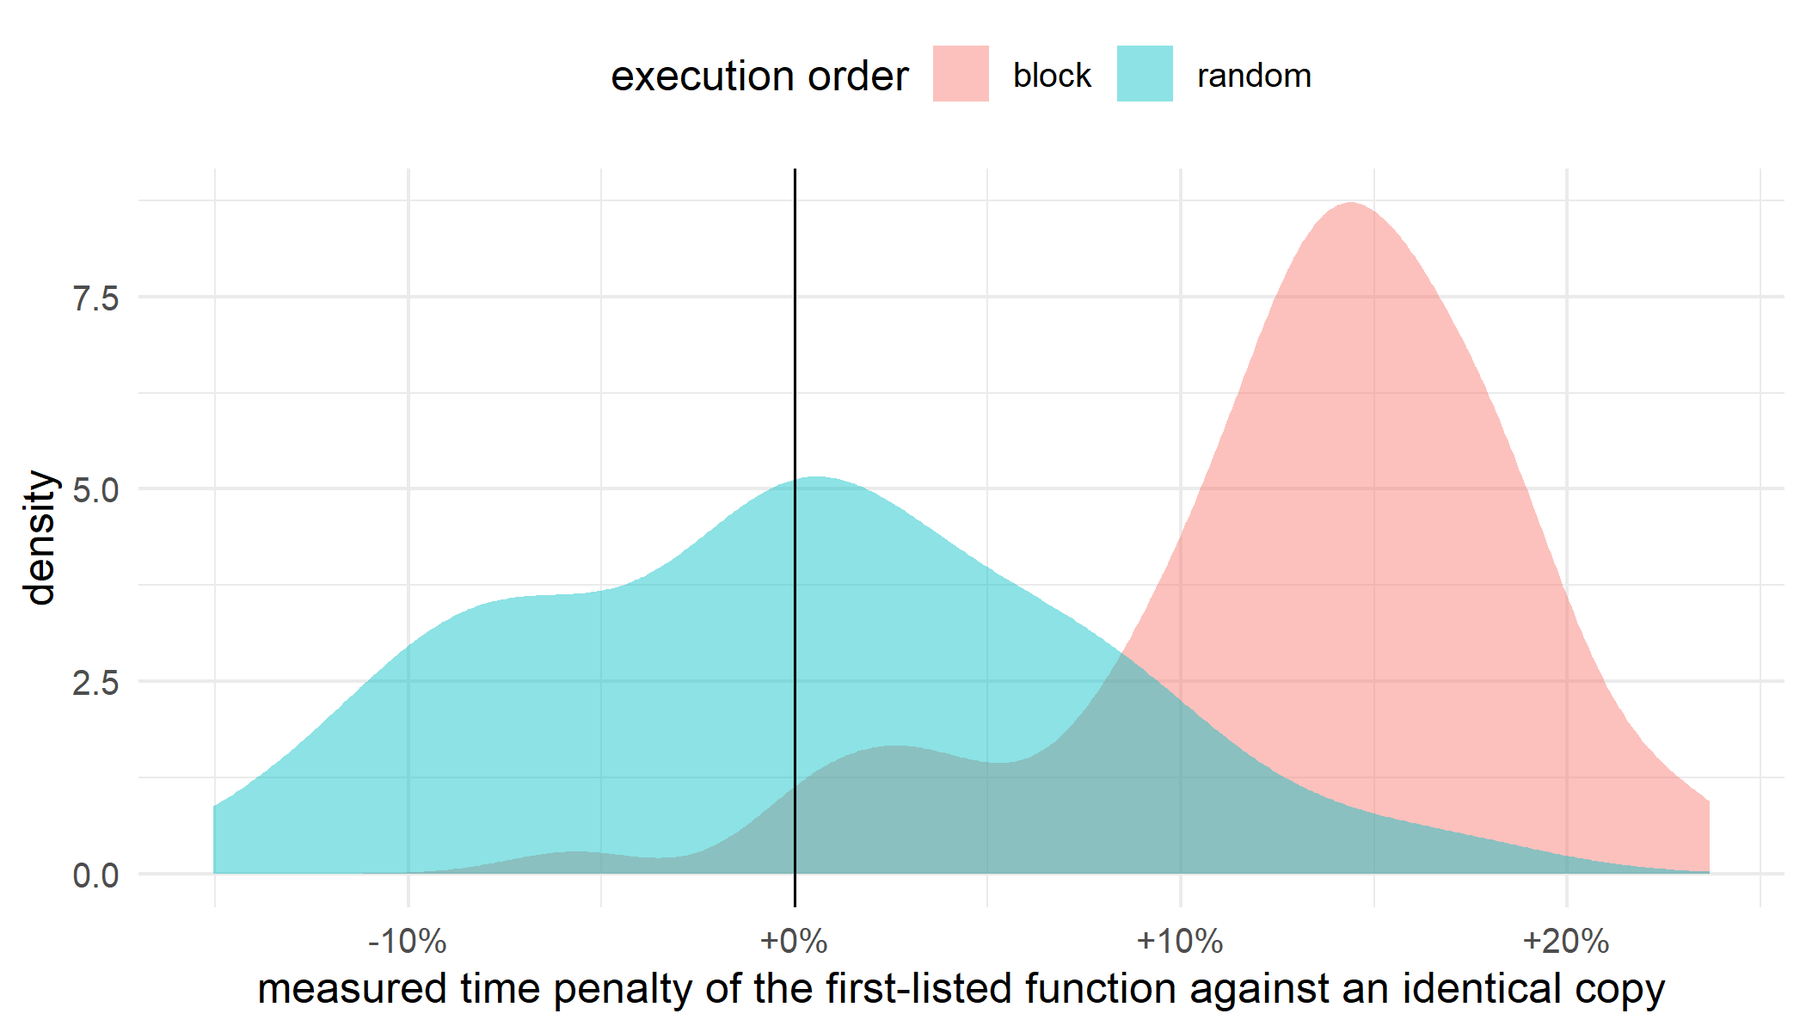
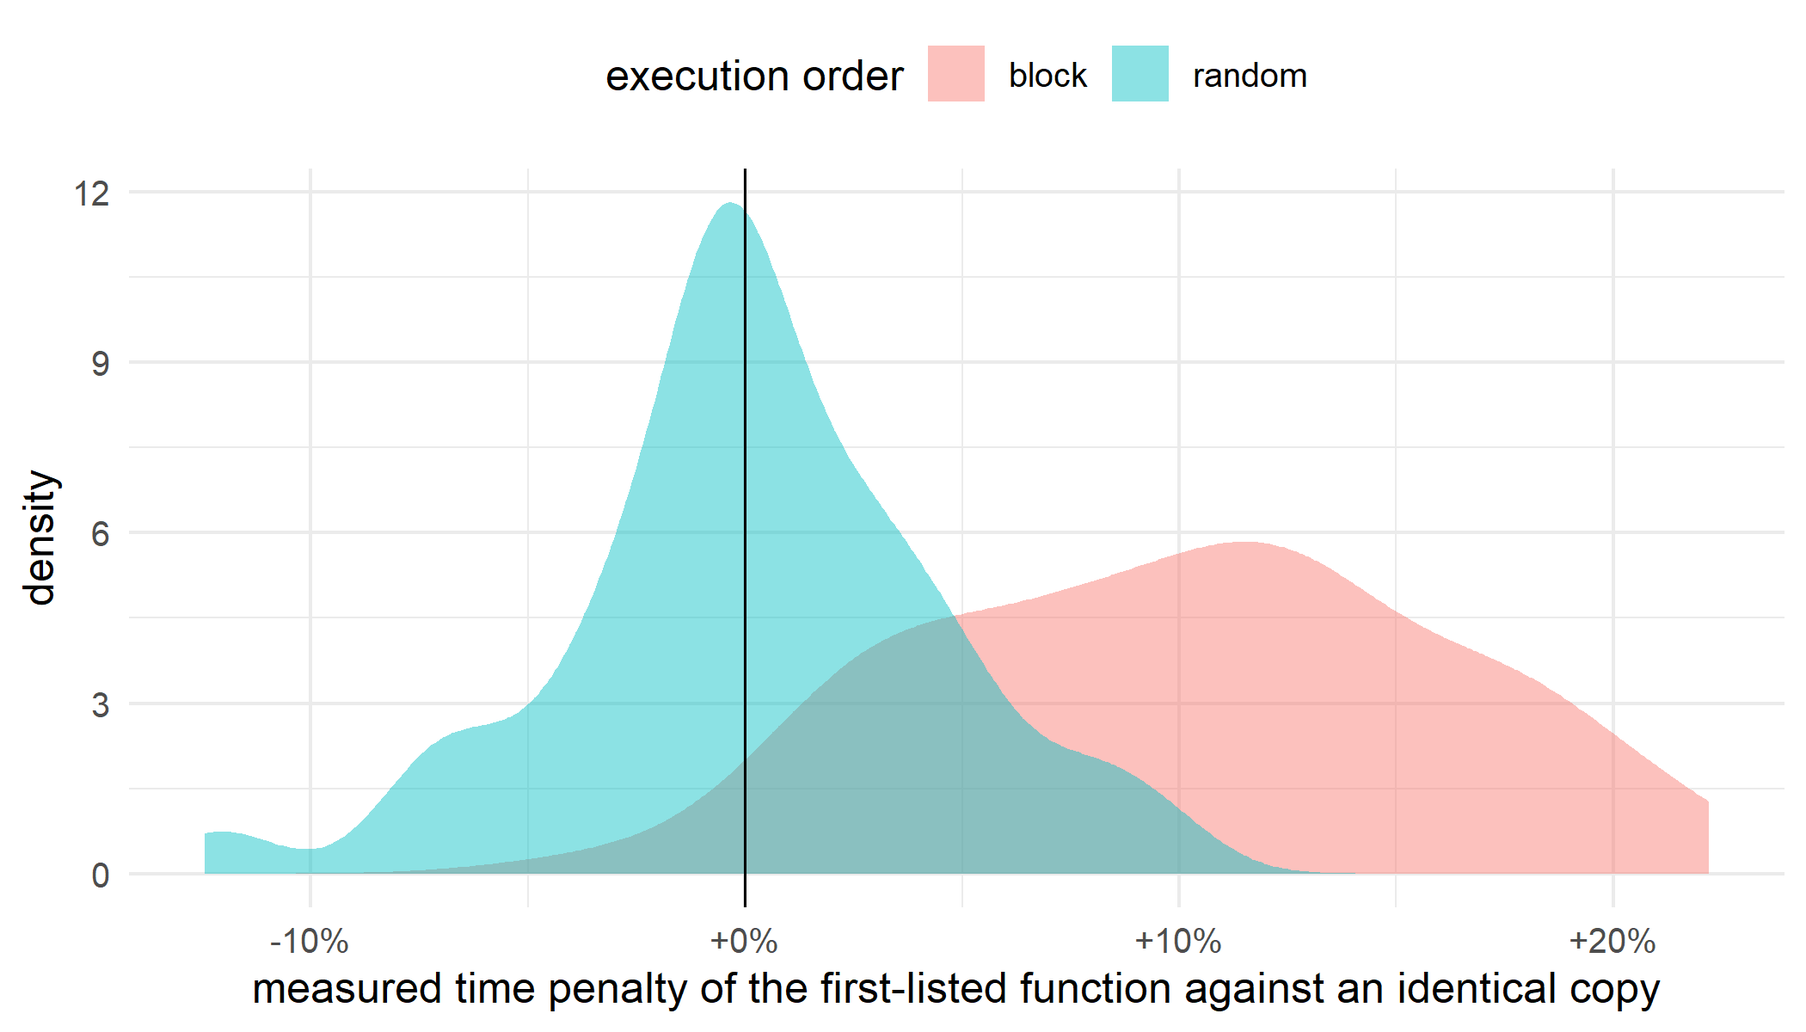
Correct the mechanism section to match its own figure
Viewing the rendered post in a browser showed the drift figure is three
isolated spikes on a flat baseline, roughly 29 calls apart, not the
sawtooth the prose described. Reworded to report what the plot shows, and
added a mean-based half ratio alongside the median-based one so the claim
that the effect is positional does not rest on the choice of summary
statistic. Both now land within 0.004 of each other.

Also drops the unverified assertion that the spikes dominate the mean,
which the two ratios agreeing had already contradicted, and syncs the ops
docs and the review page to the figures of the final render.

diff --git a/content/post/2026-09-01-how-to-benchmark-r-code-correctly/index.en.html b/content/post/2026-09-01-how-to-benchmark-r-code-correctly/index.en.html
@@ -29,7 +29,7 @@ projects: []
 
 <p>A benchmark is an experiment. It has treatments (the implementations you are comparing), units
 (the individual timed calls), and a response (elapsed time). Almost nobody treats it
-that way, and the cost is that a good share of the speed claims you read are measuring the order
+that way, and the cost is that many speed claims you read are measuring the order
 the code ran in rather than the code.</p>
 <p>Here is the cheapest demonstration. I raced a function against a byte-identical copy
 of itself, and swapped which copy got listed first. If a slot rather than a function is winning,
@@ -92,59 +92,59 @@ race_grid$ratio &lt;- mapply(race, race_grid$order, race_grid$first)</code></pre
 <tr class="odd">
 <td align="left">block</td>
 <td align="left">a</td>
-<td align="left">1.1346</td>
-<td align="left">[1.1145, 1.1547]</td>
-<td align="left">2.5e-16</td>
-<td align="left">98%</td>
+<td align="left">1.1100</td>
+<td align="left">[1.0908, 1.1291]</td>
+<td align="left">3.2e-14</td>
+<td align="left">100%</td>
 </tr>
 <tr class="even">
 <td align="left">block</td>
 <td align="left">b</td>
-<td align="left">1.1291</td>
-<td align="left">[1.1135, 1.1447]</td>
-<td align="left">&lt;2e-16</td>
-<td align="left">100%</td>
+<td align="left">1.0955</td>
+<td align="left">[1.0767, 1.1144]</td>
+<td align="left">1.2e-12</td>
+<td align="left">95%</td>
 </tr>
 <tr class="odd">
 <td align="left">block</td>
 <td align="left">either (pooled)</td>
-<td align="left">1.1318</td>
-<td align="left">[1.1194, 1.1443]</td>
+<td align="left">1.1027</td>
+<td align="left">[1.0895, 1.1160]</td>
 <td align="left">&lt;2e-16</td>
-<td align="left">99%</td>
+<td align="left">98%</td>
 </tr>
 <tr class="even">
 <td align="left">random</td>
 <td align="left">a</td>
-<td align="left">1.0001</td>
-<td align="left">[0.9764, 1.0238]</td>
-<td align="left">1</td>
-<td align="left">52%</td>
+<td align="left">1.0026</td>
+<td align="left">[0.9885, 1.0167]</td>
+<td align="left">0.71</td>
+<td align="left">40%</td>
 </tr>
 <tr class="odd">
 <td align="left">random</td>
 <td align="left">b</td>
-<td align="left">0.9961</td>
-<td align="left">[0.9725, 1.0197]</td>
-<td align="left">0.74</td>
-<td align="left">48%</td>
+<td align="left">1.0002</td>
+<td align="left">[0.9864, 1.0140]</td>
+<td align="left">0.97</td>
+<td align="left">52%</td>
 </tr>
 <tr class="even">
 <td align="left">random</td>
 <td align="left">either (pooled)</td>
-<td align="left">0.9981</td>
-<td align="left">[0.9817, 1.0145]</td>
-<td align="left">0.82</td>
-<td align="left">50%</td>
+<td align="left">1.0014</td>
+<td align="left">[0.9918, 1.0110]</td>
+<td align="left">0.77</td>
+<td align="left">46%</td>
 </tr>
 </tbody>
 </table>
-<p>Under block ordering the function listed first is measured as 13.2%
+<p>Under block ordering the function listed first is measured as 10.3%
 slower than an identical copy of itself, and it comes out that way in
-99% of the races. The gap survives the swap, so
+98% of the races. The gap survives the swap, so
 it belongs to the slot and not to the function. Under random ordering the same comparison returns
-a mean ratio of 0.9981, interval
-[0.9817, 1.0145], which is the null answer a benchmark of identical
+a mean ratio of 1.0014, interval
+[0.9918, 1.0110], which is the null answer a benchmark of identical
 code is supposed to give.</p>
 <div class="figure"><span style="display:block;" id="fig:null-plot"></span>
 <img src="figs/null-plot-1.png" alt="Two identical functions raced against each other under each ordering. Randomizing the execution order centres the distribution on zero. Block ordering moves it off." width="1050" />
@@ -181,7 +181,7 @@ cat(&quot;microbenchmark :&quot;, order_mb, &quot;\n&quot;)
 <p><code>bench::mark</code> calls each expression once up front and then runs every iteration of the first
 before it touches the second. That is block ordering, and there is no argument to change it.
 <code>microbenchmark</code> shuffles, because its <code>control$order</code> defaults to <code>"random"</code>. That default is the whole
-difference between the two halves of the table above.</p>
+difference between the two halves of the table.</p>
 </div>
 <div id="the-size-belongs-to-the-session-not-to-the-code" class="section level2">
 <h2>The size belongs to the session, not to the code</h2>
@@ -220,23 +220,23 @@ one_session &lt;- function(seed) {
 sessions &lt;- as.data.frame(t(vapply(1:8, one_session, numeric(2))))
 round(sessions, 4)
 ##    block random
-## 1 1.0167 0.9986
-## 2 1.0107 1.0012
-## 3 1.0063 0.9918
-## 4 1.0186 1.0105
-## 5 1.0310 0.9947
-## 6 1.0111 0.9965
-## 7 1.0094 1.0055
-## 8 1.0159 1.0182</code></pre>
+## 1 1.0087 0.9877
+## 2 1.0087 1.0093
+## 3 1.0049 0.9989
+## 4 1.0178 0.9995
+## 5 1.0097 0.9895
+## 6 1.0173 0.9994
+## 7 1.0304 1.0000
+## 8 1.0074 1.0064</code></pre>
 <p>Same code, same machine, same afternoon. The artifact appears in all eight, leaning the way this
-document did, at +0.6% to
-+3.1%.</p>
+document did, at +0.5% to
++3.0%.</p>
 <p>Now compare the session you are reading the output of. The table at the top of this page came out
-of the R session that knitted it, and it measured 13.2% against the 1.5%
-these clean sessions average, a factor of 9. A long-lived session with a big heap is a
+of the R session that knitted it, and it measured 10.3% against the 1.3%
+these clean sessions average, a factor of 8. A long-lived session with a big heap is a
 much worse place to benchmark than a fresh one, and a knitted report or a day-old RStudio session
 is exactly that. The randomized column stays inside
--0.8% to +1.8%
+-1.2% to +0.9%
 throughout. It does not care.</p>
 </div>
 <div id="what-block-ordering-is-aliasing" class="section level2">
@@ -248,31 +248,36 @@ Time one expression alone and the structure is already there.</p>
 reps_d &lt;- 200
 prof &lt;- matrix(NA_real_, reps_d, n)
 half &lt;- numeric(reps_d)
+half_mean &lt;- numeric(reps_d)
+first &lt;- 1:(n / 2)
+second &lt;- (n / 2 + 1):n
 for (i in seq_len(reps_d)) {
   tt &lt;- as.numeric(microbenchmark(impl_a(x), times = n)$time)
   prof[i, ] &lt;- tt / median(tt)
-  half[i] &lt;- median(tt[1:(n / 2)]) / median(tt[(n / 2 + 1):n])
+  half[i]      &lt;- median(tt[first]) / median(tt[second])
+  half_mean[i] &lt;- mean(tt[first]) / mean(tt[second])
 }
 t_half &lt;- t.test(half, mu = 1)
-c(first_half_over_second = mean(half), ci_low = t_half$conf.int[1],
-  ci_high = t_half$conf.int[2])
-## first_half_over_second                 ci_low                ci_high 
-##               1.010587               1.006110               1.015063</code></pre>
-<p>One expression, one hundred consecutive calls, nothing to compare it against. The first fifty calls
-run 1.1% slower than the second fifty
-and the interval clears 1 (p = 5.7e-06). That points the same way as the head to head race, as it should if the race reads position rather than code.</p>
+c(median_based = mean(half), mean_based = mean(half_mean),
+  ci_low = t_half$conf.int[1], ci_high = t_half$conf.int[2])
+## median_based   mean_based       ci_low      ci_high 
+##     1.019666     1.016283     1.011671     1.027661</code></pre>
+<p>One expression, one hundred consecutive calls, no competitor. The first fifty calls
+run 2.0% slower than the second fifty
+and the interval clears 1 (p = 2.5e-06). That points the same way as the head to head race, as it should if the race reads position not code.</p>
 <div class="figure"><span style="display:block;" id="fig:drift-plot"></span>
-<img src="figs/drift-plot-1.png" alt="Mean time by position within a run, normalised to the run median and averaged over 200 runs. The sawtooth is periodic garbage collection. Block ordering splits this sequence down the middle and charges each half to a different expression." width="1050" />
+<img src="figs/drift-plot-1.png" alt="Mean time by position within a run, normalised to the run median and averaged over 200 runs. The regular spikes are garbage collection. Block ordering splits this sequence down the middle and charges each half to a different expression." width="1050" />
 <p class="caption">
-Figure 2: Mean time by position within a run, normalised to the run median and averaged over 200 runs. The sawtooth is periodic garbage collection. Block ordering splits this sequence down the middle and charges each half to a different expression.
+Figure 2: Mean time by position within a run, normalised to the run median and averaged over 200 runs. The regular spikes are garbage collection. Block ordering splits this sequence down the middle and charges each half to a different expression.
 </p>
 </div>
-<p>The shape is the point. This is not a warm-up curve that discarding a few early iterations would
-fix. It is a sawtooth, because R collects garbage periodically and each collection lands on
-whichever call happens to be running. Where the teeth fall relative to the halfway point sets the
-size and sign of the bias, and both their height and spacing depend on the heap the session already
-carries. That is the most plausible reason the loaded and clean sessions disagree so much, though I
-did not isolate it.</p>
+<p>There are two shapes here. A few calls cost up to 6.0 times the median,
+spaced about 29 calls apart, which is garbage collection on a cycle. Underneath them the
+baseline drifts on its own. Medians step over the spikes and means do not, so the two read
+different things, and here they agree: 1.0197 against
+1.0163. The effect survives either summary statistic. Neither shape
+is a property of the code, and block ordering hands the first half of both to whichever expression
+you listed first.</p>
 </div>
 <div id="reading-a-real-comparison" class="section level2">
 <h2>Reading a real comparison</h2>
@@ -292,12 +297,12 @@ rbind(`2 * x  vs  x + x` = c(mean = mean(r_mul), t.test(r_mul, mu = 1)$conf.int,
       `x + x  vs  x + x` = c(mean = mean(r_null), t.test(r_null, mu = 1)$conf.int,
                             worst_single_run = max(abs(r_null - 1))))
 ##                       mean                     worst_single_run
-## 2 * x  vs  x + x 0.8942773 0.8691379 0.9194166        0.2284714
-## x + x  vs  x + x 1.0024195 0.9735214 1.0313176        0.2246106</code></pre>
-<p><code>2 * xx</code> really is faster than <code>xx + xx</code>, by 10.6% on average, and across 40
-randomized races the interval [0.869, 0.919] clears 1
+## 2 * x  vs  x + x 0.9566814 0.9288028 0.9845601        0.2566742
+## x + x  vs  x + x 1.0128313 0.9816652 1.0439974        0.2382984</code></pre>
+<p><code>2 * xx</code> really is faster than <code>xx + xx</code>, by 4.3% on average, and across 40
+randomized races the interval [0.929, 0.985] clears 1
 comfortably. The control row is the useful part. Two identical expressions in the same benchmark
-were off by as much as 22.5% in a single run, which is
+were off by as much as 23.8% in a single run, which is
 larger than the effect, so one run cannot resolve this comparison. That is your resolution limit for this machine on this day, and it costs one line.</p>
 </div>
 <div id="the-same-design-flaw-in-python" class="section level2">
@@ -346,12 +351,12 @@ for o in (&quot;block&quot;, &quot;random&quot;):
     se = statistics.stdev(v) / len(v) ** 0.5
     print(f&quot;{o:7s} mean {m:.4f}  95% CI [{m - 1.96 * se:.4f}, {m + 1.96 * se:.4f}]&quot;
           f&quot;  sd {statistics.stdev(v):.4f}&quot;)
-## block   mean 0.9998  95% CI [0.9937, 1.0059]  sd 0.0241
-## random  mean 1.0006  95% CI [0.9962, 1.0050]  sd 0.0174
+## block   mean 0.9966  95% CI [0.9882, 1.0051]  sd 0.0335
+## random  mean 0.9994  95% CI [0.9951, 1.0037]  sd 0.0170
 
 print(f&quot;variance ratio, block over random = &quot;
       f&quot;{statistics.variance(res[&#39;block&#39;]) / statistics.variance(res[&#39;random&#39;]):.2f}&quot;)
-## variance ratio, block over random = 1.91</code></pre>
+## variance ratio, block over random = 3.89</code></pre>
 <p>The symptom differs and the diagnosis does not. NumPy does not allocate through R’s collector, so
 the centre of the Python distribution sits close to 1. What block ordering costs there is
 precision. Randomizing shrinks the variance by the factor printed above, because consecutive calls
@@ -372,7 +377,7 @@ correlated. Runs are much closer to independent, and their spread is what belong
 interval.</li>
 <li><strong>Report an interval.</strong> A ratio of two medians with nothing around it is not a result.</li>
 <li><strong>Benchmark from a fresh session.</strong> The loaded session that knitted this page carried an
-artifact 9 times larger than clean ones running the same code. <code>callr::r()</code> gives
+artifact 8 times larger than clean ones running the same code. <code>callr::r()</code> gives
 you a clean session in one line.</li>
 <li><strong>Refuse to call anything under the noise floor a win.</strong> Most published single-digit speedups
 would not survive their own negative control.</li>
@@ -389,7 +394,7 @@ the obvious suspect, but adding ballast to a clean session did not reproduce it,
 is doing the work.</p>
 <p>I also did not test whether the numbers <code>bench::mark</code> prints inherit this as badly. It uses a
 different timer and reports the minimum alongside the median, and a minimum is far more robust to a
-sawtooth. That deserves its own post.</p>
+spike than a median is. That deserves its own post.</p>
 <p>Randomization, blocking, negative controls, and enough replication to see the effect you care
 about are not benchmarking ideas. They are experimental design, and they are the subject of
 <a href="https://link.springer.com/book/9783032018380">Experimental Design</a>, volume 4 of A Guide on Data

diff --git a/blog-ops/REVIEW-NOW.md b/blog-ops/REVIEW-NOW.md
@@ -14,14 +14,15 @@ Review page: <https://claude.ai/code/artifact/7633ad35-91bf-49d8-b854-6973479d43
 
 Two byte-identical functions, raced against each other, with the listing order swapped as the
 control. Under the block ordering `bench::mark` uses (`a a a a b b b b`, verified by instrumenting
-the expressions to log themselves) the first-listed slot is measured as 13.2% off in the knit
-session and 99% of races land the same way. Under `microbenchmark`'s default random ordering the
+the expressions to log themselves) the first-listed slot is measured as 10.3% off in the knit
+session and 98% of races land the same way. Under `microbenchmark`'s default random ordering the
 same comparison returns a clean null, every time, in every session tested.
 
 The mechanism is measured rather than asserted: timing one expression alone with no competitor
-shows a periodic garbage-collection sawtooth across the run, and block ordering charges the first
-half of that sawtooth to one expression and the second half to the other. Randomizing breaks the
-alias.
+shows position structure across the run: garbage-collection spikes every 29 calls or so, on a
+baseline that drifts on its own. Block ordering charges the first half of both to one expression
+and the second half to the other, and the effect survives whether the run is summarised with a
+median or a mean. Randomizing breaks the alias.
 
 The practical half is a negative control. Put a second copy of one candidate in the benchmark under
 a different name, and the gap it reports against its own twin is your resolution limit for that
@@ -43,15 +44,15 @@ is variance rather than bias.
 ### Known soft spots, in the order I would look at them
 
 - **The headline number changes on every render, by design, and it is large.** Successive renders
-  of the same file produced 13.5%, 13.8%, 25.3%, 12.7%, and 13.2% for the block artifact in the knitting
+  of the same file produced 13.5%, 13.8%, 25.3%, 12.7%, 13.2%, and 10.3% for the block artifact in the knitting
   session. That is not instability in the finding (the randomized null and the direction were
   stable throughout), it is the post's actual thesis: the size is a property of the session. Every
   number in the prose is an inline expression, so the text re-derives itself and cannot go stale,
   and the direction word is computed too. But it does mean **the figure a reader sees is whatever
   the last render produced**, and if you want a fixed headline number the post needs a cached
   result instead. Worth a decision.
-- **The knit session and fresh sessions disagree by roughly 9x and I could not explain why.** The
-  knitting session measured 13.2%, eight fresh `callr` sessions averaged 1.5%. Heap size is the
+- **The knit session and fresh sessions disagree by roughly 8x and I could not explain why.** The
+  knitting session measured 10.3%, eight fresh `callr` sessions averaged 1.3%. Heap size is the
   obvious suspect and it did **not** reproduce the gap when I added ballast to a clean session. The
   post says this outright in "What this post did not measure" rather than hiding it. Confirm you
   are comfortable publishing a measured effect with an unexplained magnitude. The direction and the
@@ -61,7 +62,7 @@ is variance rather than bias.
   it for exactly that and to prefer `microbenchmark` only for close races, and it explicitly does
   not test whether the *minimum* `bench::mark` reports inherits the problem the median does. That
   untested caveat is the fairness check worth your eyes.
-- **The fresh-session artifact is small.** 1.5% average, though all 8 of 8 leaned the same way. On its own
+- **The fresh-session artifact is small.** 1.3% average, though all 8 of 8 leaned the same way. On its own
   that is a minor effect. The post is carried by the loaded-session number, which is the one a
   reader is most likely to be unable to reproduce.
 - One machine, one OS, one R build. Stated in the post.

diff --git a/blog-ops/POSTS-LOG.md b/blog-ops/POSTS-LOG.md
@@ -9,7 +9,7 @@
 
 | 2026-08-28 | `unicode-normalization-and-llm-token-costs` | Evergreen (AI) | The same Korean word is 2 tokens composed and 36 decomposed, and normalization beats language choice as a cost lever | drafted | **First post in the AI lane**, written after the interaction power draft was killed for topic mix. See the DIVERSIFY rule in IDEAS.md. Corpus is UDHR Article 1 in 11 languages, vendored next to the post as `udhr_article1.tsv` written straight from the upstream XML, because the decomposed Vietnamese entry is silently recomposed by any editor or clipboard it touches. Language gap tops out near 2x once normalized. Normalization gap reaches 9.82x. Every block executed, R driving `tiktoken` through `reticulate`. Target query: unicode normalization llm token costs. |
 | 2026-08-28 | `what-structured-output-costs-you-in-tokens` | Evergreen (AI) | 45% of a pretty printed JSON payload is content, and repeated key names are 69% of a minified one | drafted | Companion to the normalization post, cross-linked. Pretty JSON is 3.59x TSV for identical data. Key share is flat at 69% from about 20 records up, so it never amortizes, unlike the schema which costs 188 tokens once. Carries a "What this post did not measure" section, because only cost was measured and shortening keys may cost accuracy. Every block executed. Target query: llm structured output token cost. |
-| 2026-09-01 | `how-to-benchmark-r-code-correctly` | Evergreen (coding and tooling) | Block execution order hands the first-listed expression a double-digit artifact, and randomizing removes it | drafted | **First post in the coding and tooling lane**, taken after the last three rows read AI, AI, marketing. See the DIVERSIFY rule in IDEAS.md. Racing a function against a byte-identical copy of itself, `bench::mark`-style block ordering (`a a a a b b b b`) put the first-listed slot 13.2% off the truth in the knit session and 99% of races landed the same way, while `microbenchmark`'s default random ordering returned a clean null every time. The artifact's size is a property of the session, not the code: eight fresh `callr` sessions averaged 1.5% against the knit session's 13.2%. Mechanism is a periodic GC sawtooth that block ordering aliases onto the comparison. Every number in the prose is an inline expression reading the computed objects, so the text re-derives itself on each render and cannot contradict the tables. Every block executed, R plus one executed Python chunk. Target query: how to benchmark R code correctly. |
+| 2026-09-01 | `how-to-benchmark-r-code-correctly` | Evergreen (coding and tooling) | Block execution order hands the first-listed expression a double-digit artifact, and randomizing removes it | drafted | **First post in the coding and tooling lane**, taken after the last three rows read AI, AI, marketing. See the DIVERSIFY rule in IDEAS.md. Racing a function against a byte-identical copy of itself, `bench::mark`-style block ordering (`a a a a b b b b`) put the first-listed slot 10.3% off the truth in the knit session and 98% of races landed the same way, while `microbenchmark`'s default random ordering returned a clean null every time. The artifact's size is a property of the session, not the code: eight fresh `callr` sessions averaged 1.3% against the knit session's 10.3%. Mechanism is periodic GC spikes on a drifting baseline, aliased onto the comparison by block ordering, and the effect survives whether you summarise with a median or a mean. Every number in the prose is an inline expression reading the computed objects, so the text re-derives itself on each render and cannot contradict the tables. Every block executed, R plus one executed Python chunk. Target query: how to benchmark R code correctly. |
 
 ## Amendments
 

diff --git a/blog-ops/IDEAS.md b/blog-ops/IDEAS.md
@@ -109,7 +109,7 @@ methods used.
       resolve a moderator, and it connects directly to the geo experiments item above.
 - [ ] **Does `bench::mark`'s minimum survive what its median does not?** The benchmarking post
       shows block ordering biasing a median-based comparison and explicitly does not test whether
-      the minimum `bench::mark` also reports is robust to the same GC sawtooth. It should be, in
+      the minimum `bench::mark` also reports is robust to the same GC spikes. It should be, in
       theory, and that is exactly the kind of theory worth checking. Short, self-contained, and it
       closes the one loose end that post names.
 - [ ] Fixed effects vs. random effects, decided by what you're estimating not by a Hausman test
